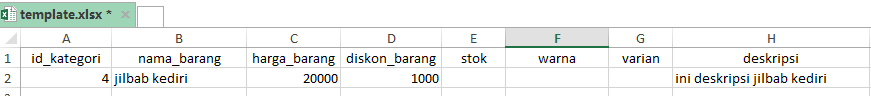
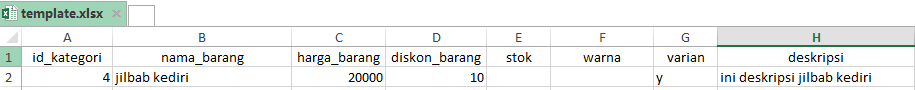
3ert

diff --git a/resources/views/frontend/singleproduk.blade.php b/resources/views/frontend/singleproduk.blade.php
@@ -170,7 +170,7 @@
                             <div class="col-sm-6 text-center">
                                 <div class="product-images">
                                     <div class="product-main-img">
-                                        @php
+                                    @php
                                     $kode_barang = $barang->kode_barang;
                                     $foto = DB::table('gambar')
                                     ->where('kode_barang', $kode_barang)
@@ -192,7 +192,7 @@
                                     <div class="product-inner-price" style="font-size: 20px;">
                                        
                                         @if($barang->diskon > 0)
-                                        <ins>{{"Rp ". number_format(($barang->harga_barang-$barang->diskon),0,',','.')}}</ins> <del>{{"Rp ". number_format($barang->harga_barang,0,',','.')}}</del>
+                                        <ins>{{"Rp ". number_format(($barang->harga_barang-($barang->diskon/100*$barang->harga_barang)),0,',','.')}}</ins> <del>{{"Rp ". number_format($barang->harga_barang,0,',','.')}}</del>
                                         @else
                                         <ins>{{"Rp ". number_format($barang->harga_barang,0,',','.')}}</ins>
                                         @endif
@@ -231,7 +231,11 @@
                                         <input type="hidden" name="kode_barang" value="{{$barang->kode_barang}}">
                                         {{ csrf_field() }}
                                         
-                                        <button class="add_to_cart_button pull-right" type="submit">Add to cart</button>
+                                        <div class="pull-right">
+                                        <button class="btn btn-md btn-primary" type="submit">Masukan Keranjang</button>
+                                        <a onclick="window.history.go(-1);" class="btn btn-lg btn-danger">Kembali</a>    
+                                        </div>
+                                        
                                     </form>   
                             </div>   
                             <div class="col-sm-12">
@@ -240,23 +244,15 @@
                                 <div class="product-inner">
                                     
                                     <div role="tabpanel">
-                                        <ul class="product-tab" role="tablist">
-                                            <li role="presentation" class="active"><a href="#home" aria-controls="home" role="tab" data-toggle="tab">Deskripsi</a></li>
-                                            <li role="presentation"><a href="#profile" aria-controls="profile" role="tab" data-toggle="tab">Warna Tersedia</a></li>
-                                        </ul>
+                                      
                                         <div class="tab-content">
                                             <div role="tabpanel" class="tab-pane fade in active" id="home">
-                                                <h2>Product Description</h2>  
-                                                <p>Lorem ipsum dolor sit amet, consectetur adipiscing elit. Nam tristique, diam in consequat iaculis, est purus iaculis mauris, imperdiet facilisis ante ligula at nulla. Quisque volutpat nulla risus, id maximus ex aliquet ut. Suspendisse potenti. Nulla varius lectus id turpis dignissim porta. Quisque magna arcu, blandit quis felis vehicula, feugiat gravida diam. Nullam nec turpis ligula. Aliquam quis blandit elit, ac sodales nisl. Aliquam eget dolor eget elit malesuada aliquet. In varius lorem lorem, semper bibendum lectus lobortis ac.</p>
-
-                                                <p>Mauris placerat vitae lorem gravida viverra. Mauris in fringilla ex. Nulla facilisi. Etiam scelerisque tincidunt quam facilisis lobortis. In malesuada pulvinar neque a consectetur. Nunc aliquam gravida purus, non malesuada sem accumsan in. Morbi vel sodales libero.</p>
+                                                <h2>Deskripsi Produk</h2>  
+                                                <p>
+                                                    {{$barang->deskripsi}}
+                                                </p>
                                             </div>
-                                            <div role="tabpanel" class="tab-pane fade" id="profile">
-                                                <h2>Reviews</h2>
-                                                <div class="submit-review">
-                                                  
-                                                </div>
-                                            </div>
+                                            
                                         </div>
                                     </div>
                                     

diff --git a/resources/views/frontend/home.blade.php b/resources/views/frontend/home.blade.php
@@ -80,7 +80,11 @@
                 <div class="col-sm-6">
                     @if(Session::get('user_name'))
                     <div class="shopping-item">
-                        <a href="cart.html">Keranjang - <span class="cart-amunt">$100</span> <i class="fa fa-shopping-cart"></i> <span class="product-count">5</span></a>
+                        <a href="cart.html">Keranjang - <span class="cart-amunt">$100</span> <i class="fa fa-shopping-cart"></i> 
+                            @if($totalkeranjang>0)
+                            <span class="product-count">{{$totalkeranjang}}</span>
+                            @endif
+                        </a>
                     </div>
                     @endif
                 </div>
@@ -191,8 +195,8 @@
                                     <img src="{{asset('img/barang/'.$ft->nama)}}" alt="">
                                     @endforeach
                                     <div class="product-hover">
-                                        <a href="#" class="add-to-cart-link"><i class="fa fa-shopping-cart"></i> Masukan Keranjang</a>
-                                        <a href="single-product.html" class="view-details-link"><i class="fa fa-link"></i> Detail</a>
+                                       
+                                        <a href="{{url('/detailbarang/'.$barangterbaru->id)}}" class="add-to-cart-link"><i class="fa fa-eye"></i> Detail</a>
                                     </div>
                                 </div>
                                 
@@ -201,7 +205,7 @@
                                 <div class="product-carousel-price">
                                     @if($barangterbaru->diskon > 0)
                                     @php
-                                    $hargadiskon = $barangterbaru->harga_barang - $barangterbaru->diskon; 
+                                    $hargadiskon = $barangterbaru->harga_barang - ($barangterbaru->diskon/100*$barangterbaru->harga_barang); 
                                     @endphp
                                     <ins>{{"Rp ". number_format($hargadiskon,0,',','.')}}</ins>
                                     <del>{{"Rp ". number_format($barangterbaru->harga_barang,0,',','.')}}</del>
@@ -245,7 +249,7 @@
                         <div class="product-carousel-price">
                               @if($suges->diskon > 0)
                                     @php
-                                    $hargadiskon = $suges->harga_barang - $suges->diskon; 
+                                    $hargadiskon = $suges->harga_barang - ($suges->diskon/100*$suges->harga_barang); 
                                     @endphp
                                     <ins>{{"Rp ". number_format($hargadiskon,0,',','.')}}</ins>
                                     <del>{{"Rp ". number_format($suges->harga_barang,0,',','.')}}</del>
@@ -258,7 +262,7 @@
                         
                         <div class="product-option-shop">
                             <!--a class="add_to_cart_button" data-quantity="1" data-product_sku="" data-product_id="70" rel="nofollow" href="/canvas/shop/?add-to-cart=70">Tambah Ke Keranjang</a-->
-                             <a href="{{url('/detailbarang/'.$suges->id)}}" class="add_to_cart_button">Tambah Ke Keranjang</a>
+                             <a href="{{url('/detailbarang/'.$suges->id)}}" class="add_to_cart_button">Detail Produk</a>
                         </div>                       
                     </div>
                 </div>

diff --git a/resources/views/frontend/semuaproduk.blade.php b/resources/views/frontend/semuaproduk.blade.php
@@ -178,11 +178,21 @@
                         @endforeach
                         <h2><a href="">{{$barang->barang}}</a></h2>
                         <div class="product-carousel-price">
-                            <ins>$899.00</ins> <del>$999.00</del>
+                             @if($barang->diskon > 0)
+                                    @php
+                                    $hargadiskon = $barang->harga_barang - ($barang->diskon/100*$barang->harga_barang); 
+                                    @endphp
+                                    <ins>{{"Rp ". number_format($hargadiskon,0,',','.')}}</ins>
+                                    <del>{{"Rp ". number_format($barang->harga_barang,0,',','.')}}</del>
+                                    <p>{{"Stok : ".$barang->total}}</p>
+                                    @else
+                                    <ins>{{"Rp ". number_format($barang->harga_barang,0,',','.')}}</ins>
+                                    <p>{{"Stok : ".$barang->total}}</p>
+                                    @endif
                         </div>  
                         
                         <div class="product-option-shop">
-                            <a class="add_to_cart_button" data-quantity="1" data-product_sku="" data-product_id="70" rel="nofollow" href="/canvas/shop/?add-to-cart=70">Tambah Ke Keranjang</a>
+                            <a class="add_to_cart_button" data-quantity="1" data-product_sku="" data-product_id="70" rel="nofollow" href="{{url('/detailbarang/'.$barang->id)}}">Detail Produk</a>
                         </div>                       
                     </div>
                 </div>

diff --git a/app/Http/Controllers/frontend/Catalogcontroller.php b/app/Http/Controllers/frontend/Catalogcontroller.php
@@ -33,7 +33,6 @@ class Catalogcontroller extends Controller
     }
     public function masukkeranjang(Request $request)
     {
-        dd(Session::get('iduser'));
         $datawarna = explode("-", $request->warna);
         $cariwarnas = DB::table('tb_barangs')
                     ->where('idbarang',$datawarna[0])
@@ -52,18 +51,23 @@ class Catalogcontroller extends Controller
             foreach ($caribarang as $barang) {
                     $nama = $barang->barang;
                     $harga = $barang->harga_barang; 
-            }            
+                    $diskon = $barang->diskon;
+            }
+            $totaldiskon = $diskon/100*$request->jumlah*$harga;            
             DB::table('tb_details')
             ->insert([
                 'idwarna'=>$datawarna[0],
-                'iduser'=>Session::get('iduser'),
+                'iduser'=>Session::get('user_id'),
                 'tgl'=>date("d-m-Y"),
                 'kode_barang'=>$request->kode_barang,
                 'barang'=>$nama,
                 'harga'=>$harga,
                 'jumlah'=>$request->jumlah,
                 'total_a'=>($request->jumlah*$harga),
+                'diskon'=>$totaldiskon,
+                'total'=>($request->jumlah*$harga)-$totaldiskon,
                 'metode'=>"pesan"
+
 
             ]);
             return back();

diff --git a/app/Http/Controllers/frontend/userUtama.php b/app/Http/Controllers/frontend/userUtama.php
@@ -5,6 +5,7 @@ namespace App\Http\Controllers\frontend;
 use Illuminate\Http\Request;
 use App\Http\Controllers\Controller;
 use Illuminate\Support\Facades\DB;
+use Illuminate\Support\Facades\Session;
 
 class userUtama extends Controller
 {
@@ -24,6 +25,10 @@ class userUtama extends Controller
             ->orderby('tb_kodes.id','desc')
             ->limit(8)
             ->get();
+        
+        $totalkeranjang = DB::table('tb_details')
+        ->where('iduser',Session::get('user_id'))
+        ->count();
 
         $barangsuges = DB::table('tb_kodes')
             ->join('tb_kategoris', 'tb_kodes.id_kategori', '=', 'tb_kategoris.id')
@@ -34,7 +39,7 @@ class userUtama extends Controller
             ->limit(8)
             ->get();
         $slider = DB::table('sliders')->get();
-        return view("frontend/home",['sliders'=>$slider, 'barangbaru'=>$barangbaru,'barangsuges'=>$barangsuges]);
+        return view("frontend/home",['sliders'=>$slider, 'barangbaru'=>$barangbaru,'barangsuges'=>$barangsuges,'totalkeranjang'=>$totalkeranjang]);
     }
 
     /**

diff --git a/resources/views/barang/importexcel.blade.php b/resources/views/barang/importexcel.blade.php
@@ -36,7 +36,7 @@
                                                <br><br>
                                                <img src="{{url('img/web/dvina2.PNG')}}"><br><br>
                                                <li>
-                                                   isi nama_barang dan deskripsi dengan format text, kemudian untuk harga_barang, diskon_barang isi dengan format angka. Kosongkan stok dan warna pada barang utama. Untuk lebih jelas lihat gambar di bawah
+                                                   isi <b>nama_barang</b> dan <b>deskripsi</b> dengan format text, kemudian untuk <b>harga_barang</b>, <b>diskon_barang</b> isi dengan format angka, ingat, pastikan <b>diskon_barang</b> tidak lebih dari 99. Kosongkan stok dan warna pada barang utama. Untuk lebih jelas lihat gambar di bawah
                                                </li><br>
                                                <img src="{{url('img/web/dvina3.PNG')}}"><br><br>
                                                <li>

diff --git a/resources/views/barang/index.blade.php b/resources/views/barang/index.blade.php
@@ -95,7 +95,13 @@
                                         <td>{{$row->barang}}</td>
                                         <td>{{$row->kategori}}</td>
                                         <td>{{$row->harga_barang}}</td>
-                                        <td>{{$row->diskon}}</td>
+                                        <td>
+                                            @if($row->diskon>0)
+                                            {{$row->diskon." %"}}
+                                            @else
+                                            -
+                                            @endif
+                                        </td>
                                         <td>{{$row->total}}</td>
                                         <td class="text-center">
                                             <!--a href="{{url('barang/'.$row->id.'/tambahstok')}}" class="btn btn-warning"><i class="fa fa-plus"></i></a-->

diff --git a/resources/views/barang/create.blade.php b/resources/views/barang/create.blade.php
@@ -94,8 +94,9 @@
                                         @endif
                                         <div class="form-group">
                                             <label>Diskon Barang</label>
-                                            <input type="text" onkeypress="return isNumberKey(event)" class="form-control" name="diskon_barang" value="{{ old('diskon_barang') }}" required>
+                                            <input type="number" min="0" max="99" onkeypress="return isNumberKey(event)" class="form-control" name="diskon_barang" value="{{ old('diskon_barang') }}" required>
                                         </div>
+                                        
                                         @if($errors->has('diskon_barang'))
                                         <div class="alert alert-danger">
                                         {{ $errors->first('diskon_barang')}}

diff --git a/app/Http/Controllers/Logincontroller.php b/app/Http/Controllers/Logincontroller.php
@@ -63,13 +63,15 @@ class Logincontroller extends Controller
         $password = md5($request->password);
 
         $data = DB::table('tb_users')->where([['username',$username],['password',$password]])->count();
-        // $datausers = DB::table('admins')->where([['username',$username],['password',$password]])->get();
-        // foreach ($datausers as $datauser) {
-        //     $id = $datauser->id;
-        // }
+        $datausers = DB::table('tb_users')
+        ->where([['username',$username],['password',$password]])
+        ->get();
+        foreach ($datausers as $du) {
+             $id = $du->id;
+         }
         if($data>0){
                 Session::put('user_name',$request->username);
-                //Session::put('user_id',$id);
+                Session::put('user_id',$id);
                 Session::put('login',TRUE);
                 return redirect('/');
         }else{

diff --git a/resources/views/barang/edit.blade.php b/resources/views/barang/edit.blade.php
@@ -111,7 +111,7 @@
 
                                         <div class="form-group">
                                             <label>Diskon Barang</label>
-                                            <input type="text" onkeypress="return isNumberKey(event)" class="form-control" name="diskon_barang" value="{{$row->diskon}}" required>
+                                            <input type="number" min="0" max="99" onkeypress="return isNumberKey(event)" class="form-control" name="diskon_barang" value="{{$row->diskon}}" required>
                                         </div>
                                         
                                         {{csrf_field()}}
